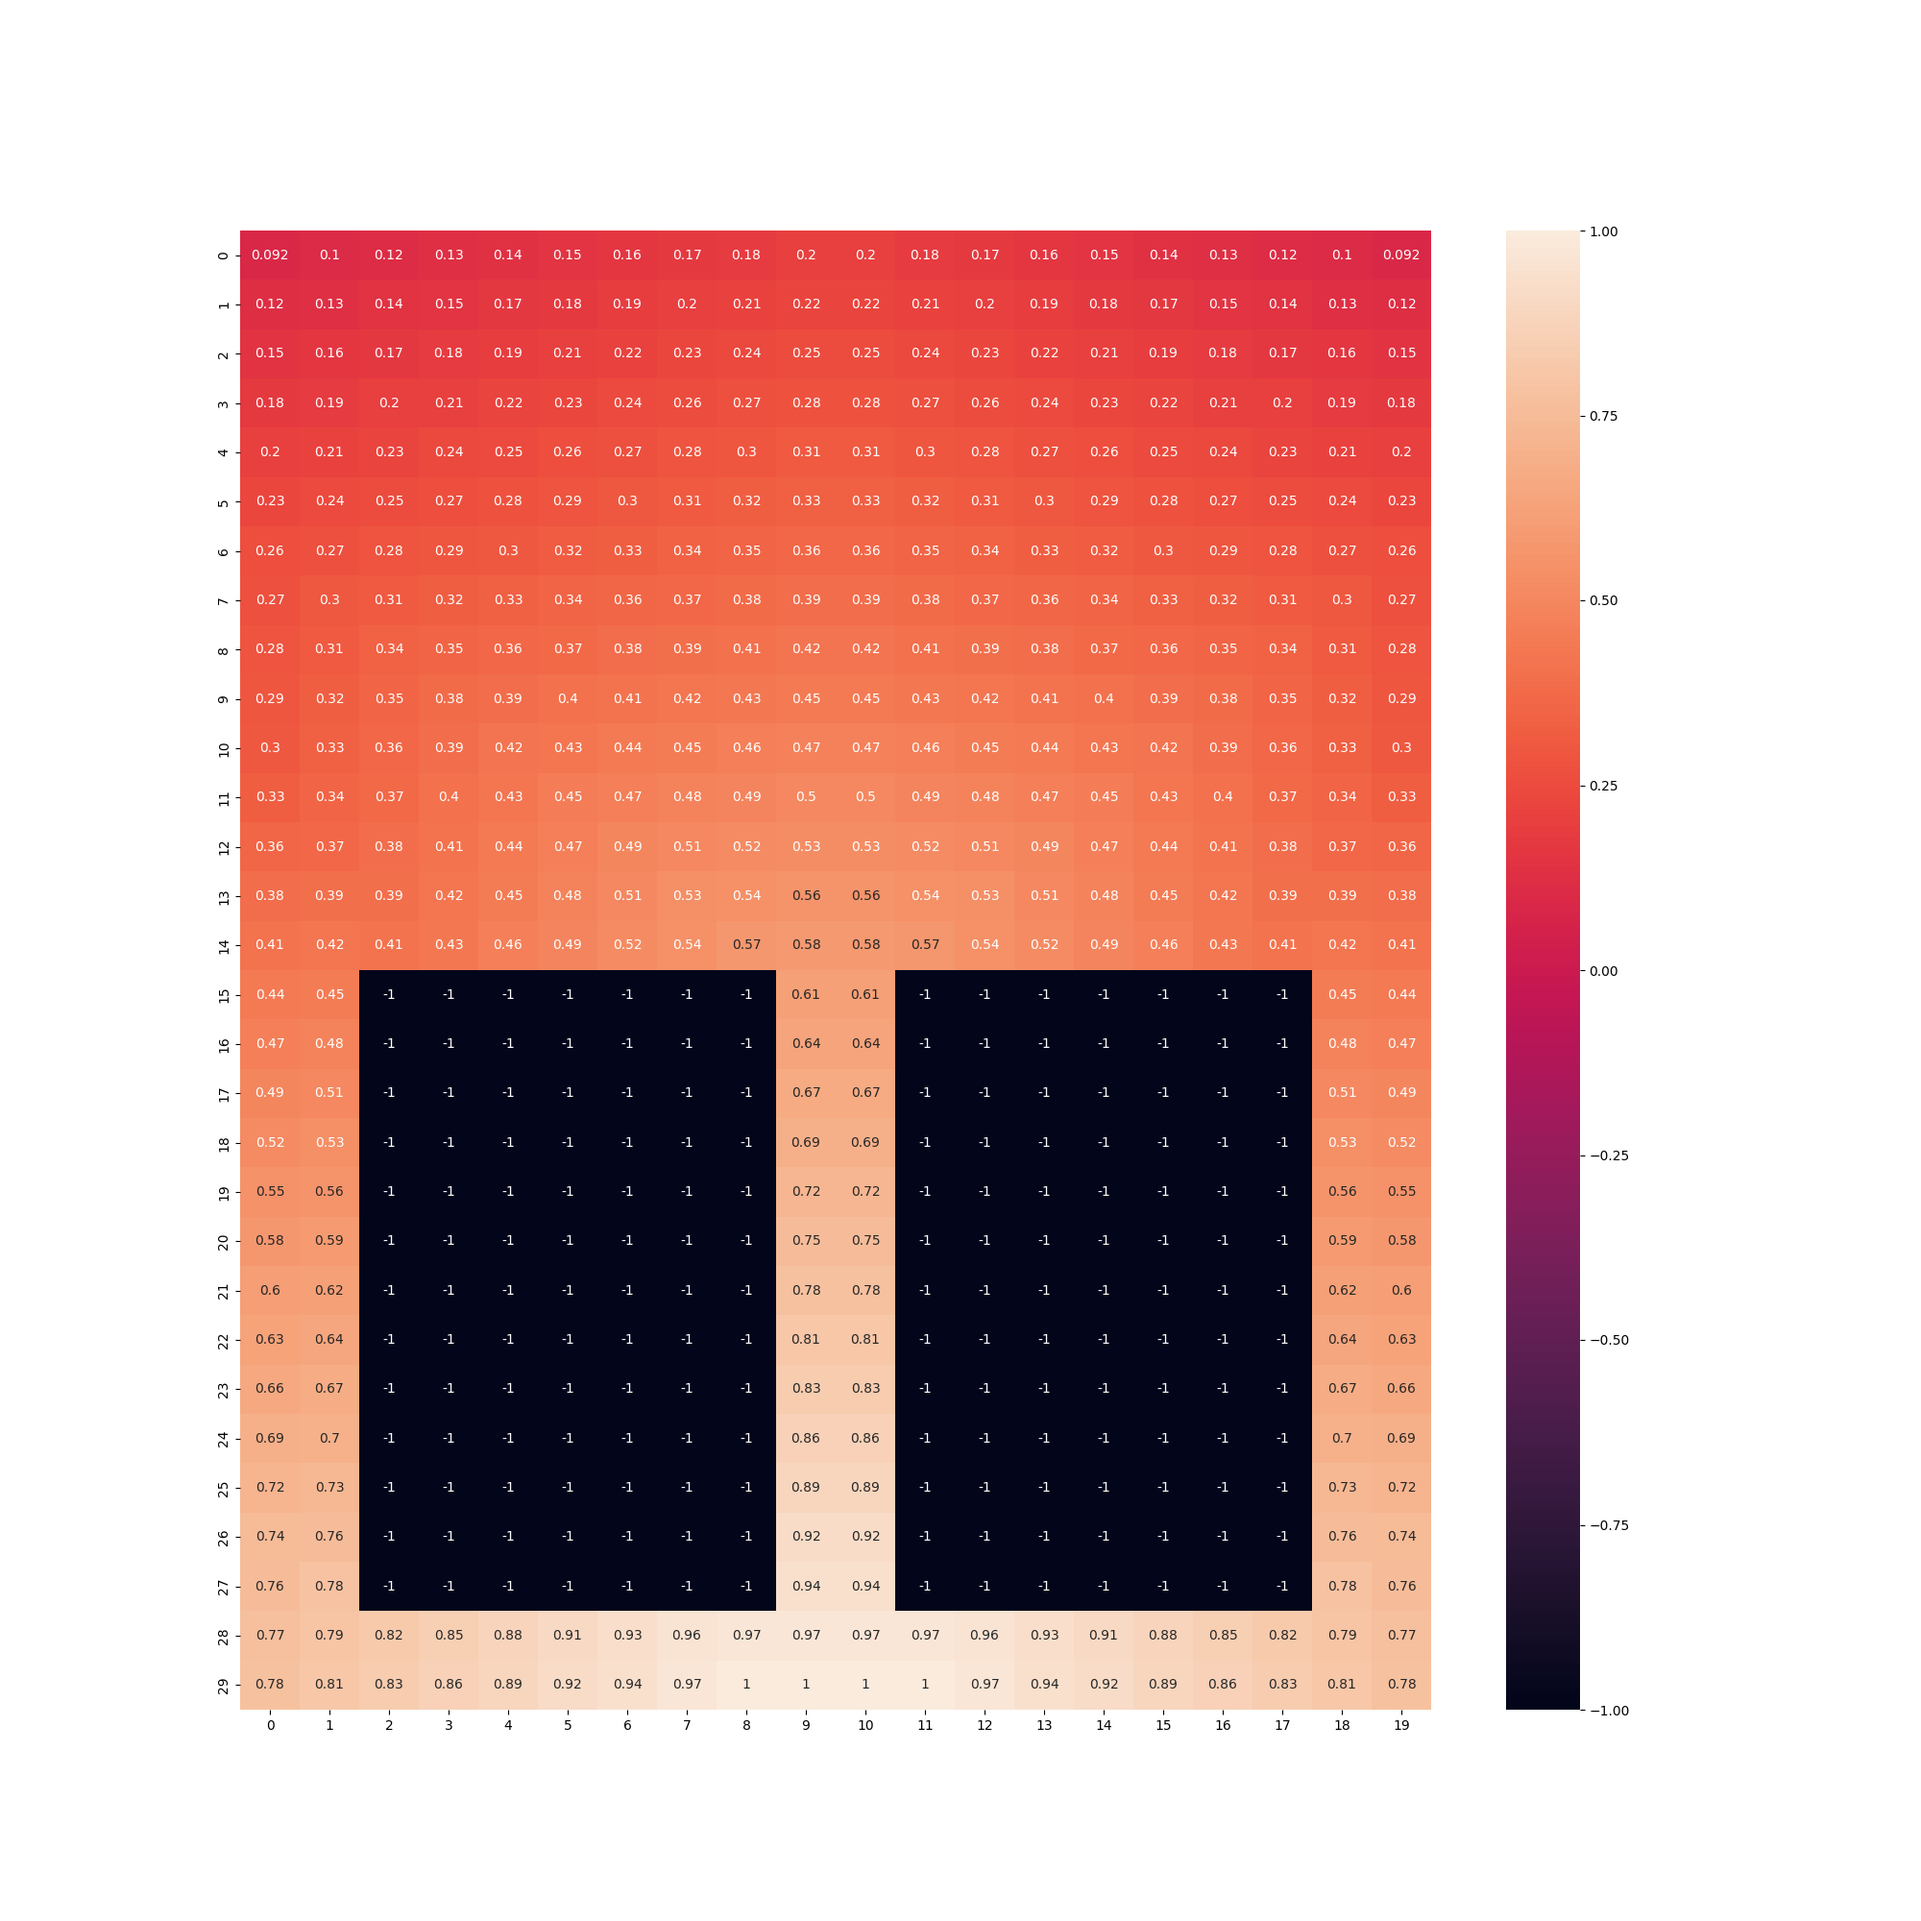
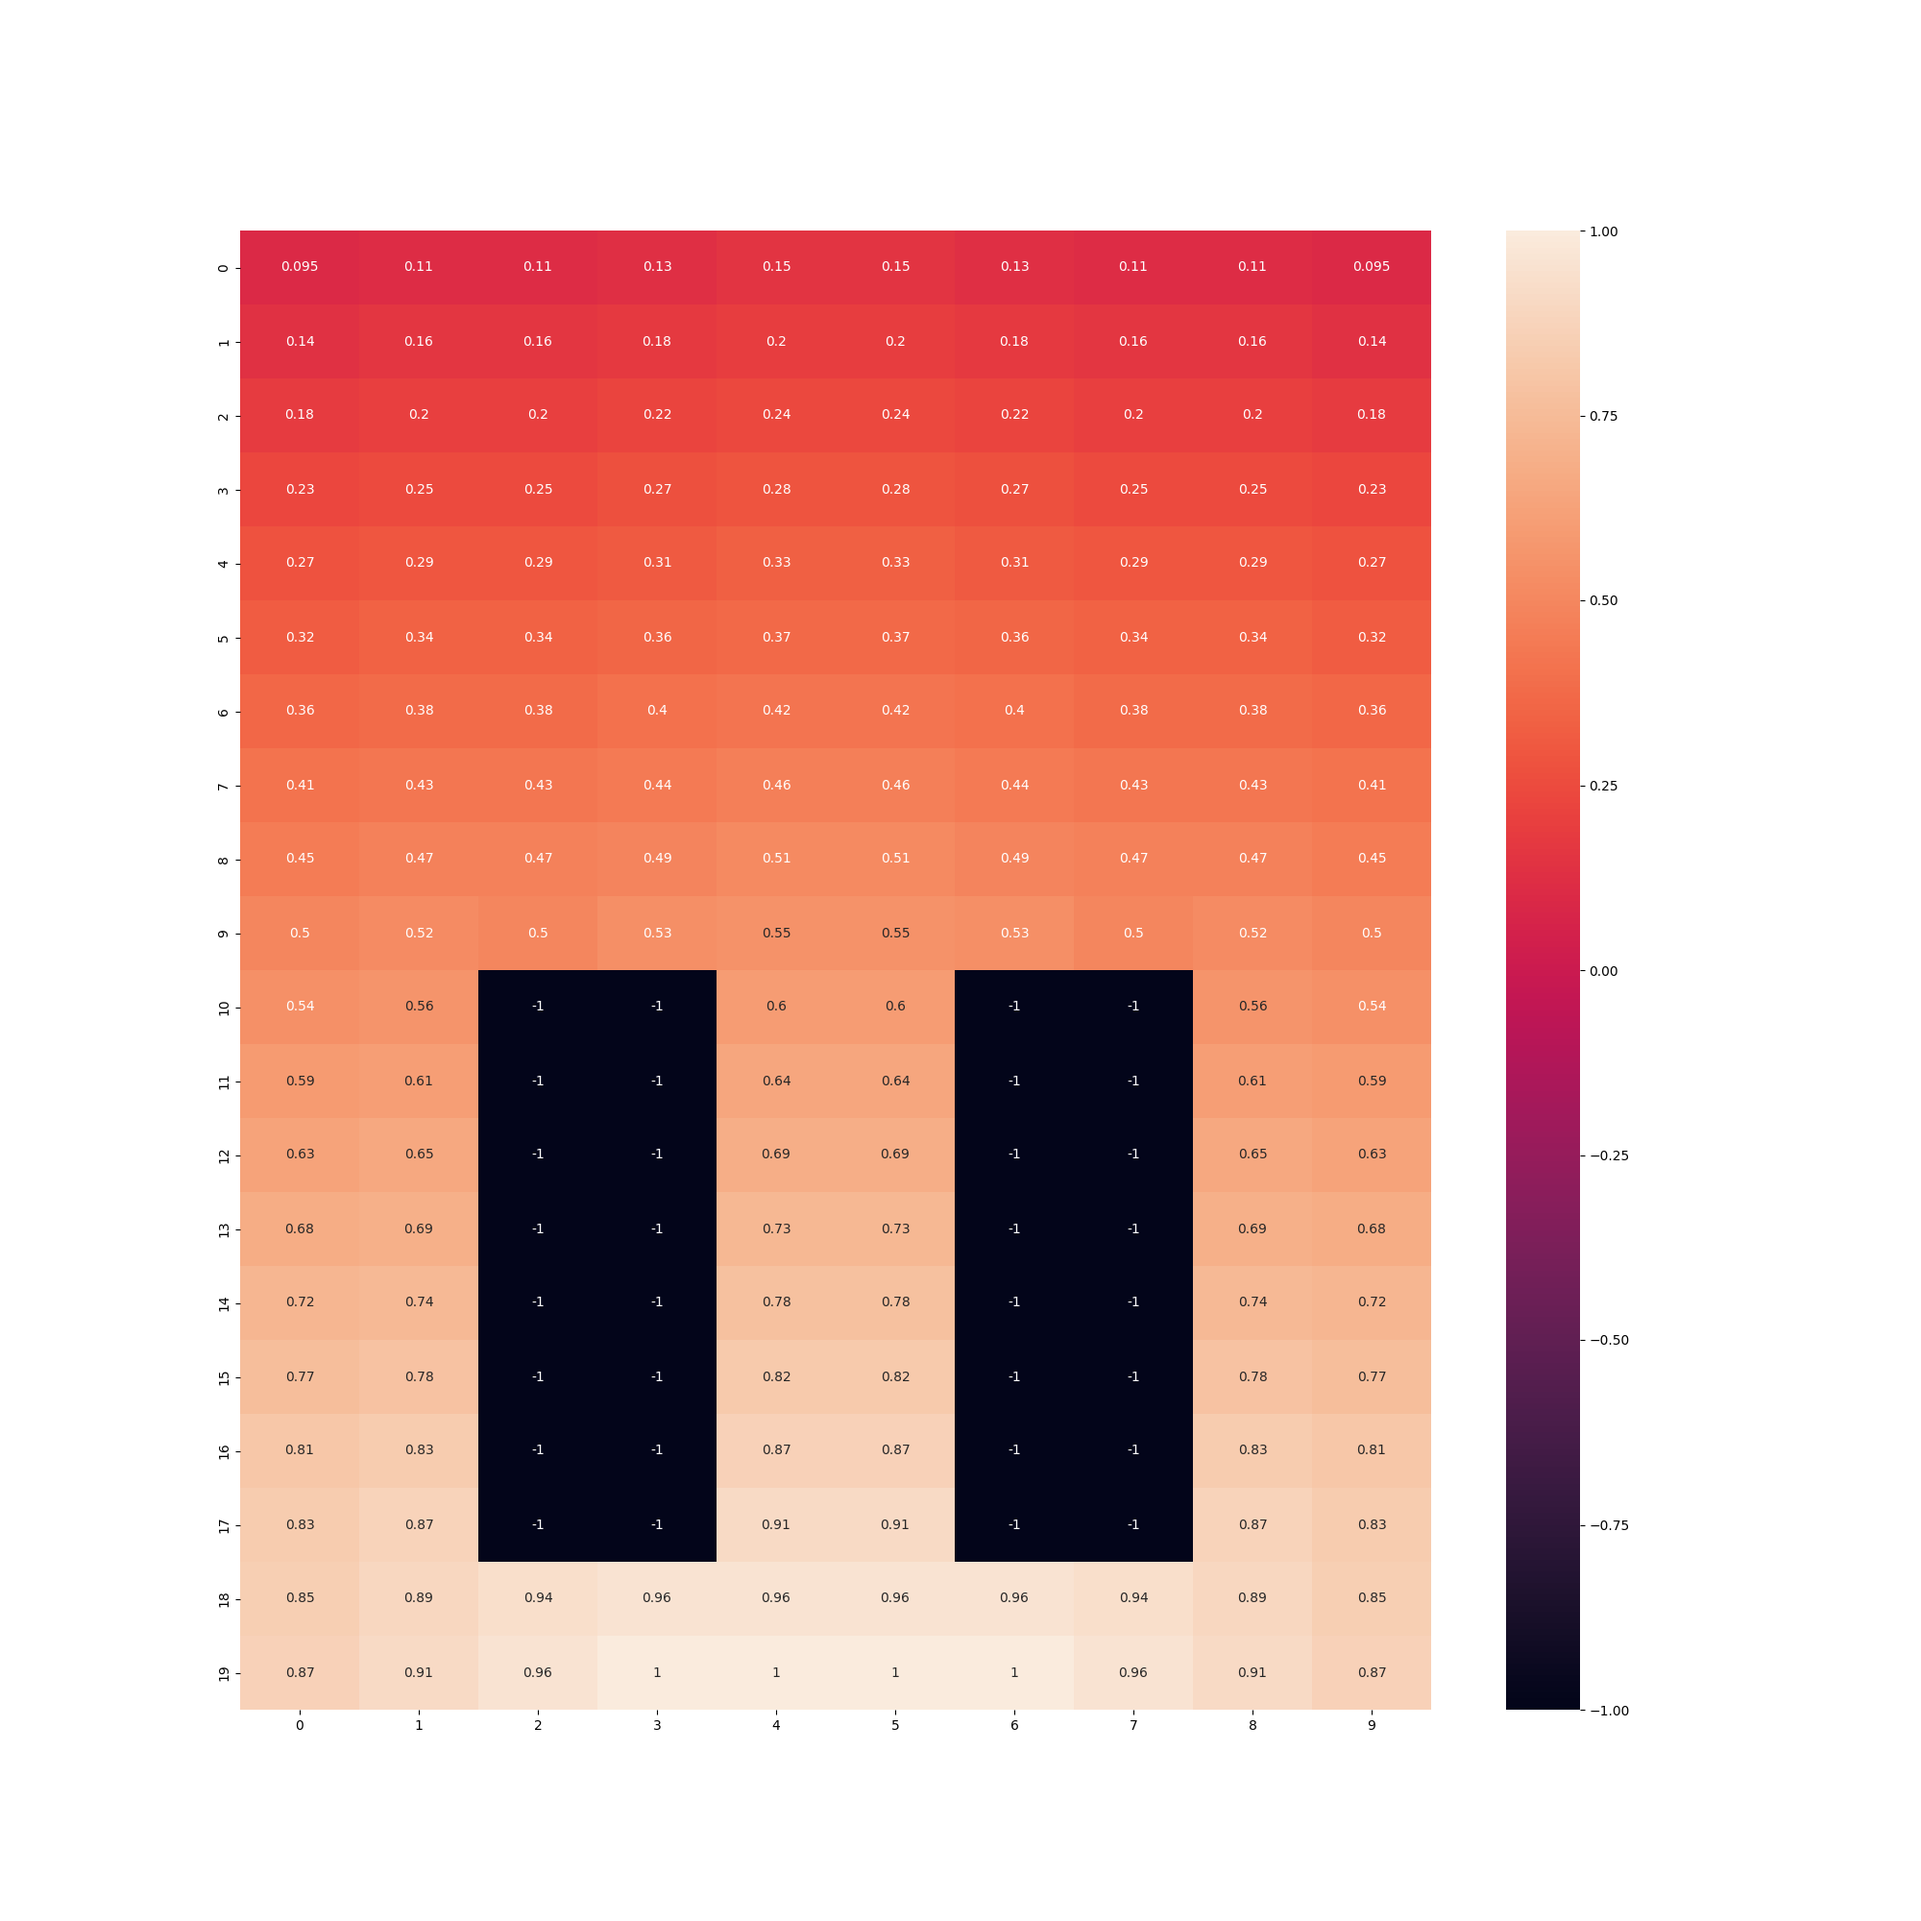
dodanie przycisku do wyboru symulacji z jednymi drzwiami

diff --git a/symulacja_mesa/model.py b/symulacja_mesa/model.py
@@ -27,7 +27,7 @@ import matplotlib.pyplot as plt
 import seaborn as sns
 
 class Evacuation(mesa.Model):
-    def __init__(self, n=10, width=20, height=10, door_width = 4, seed=None, model_type = "BNE_mixed_SR", p_BNE = 100):
+    def __init__(self, n=10, width=20, height=10, door_width = 4, seed=None, model_type = "BNE_mixed_SR", p_BNE = 100, right_door = True):
         super().__init__(seed=seed)
         self.patch_data = {}
         self.number_persons = n
@@ -36,7 +36,7 @@ class Evacuation(mesa.Model):
         self.grid = mesa.space.MultiGrid(width, height, False)
         
         self.moving_pattern = model_type
-        self.right_door_only = True #można dodać do tego przycisk żeby zmieniać
+        self.right_door_only = right_door
     
         #exits
         self.door_width = door_width

diff --git a/symulacja_mesa/app.py b/symulacja_mesa/app.py
@@ -291,6 +291,12 @@ page = SolaraViz(
             "label": "Model type",
             "values": ["BNE_mixed_SR", "BNE_mixed_RF", "SR", "RF"],
 
+        },
+        "right_door":{
+            "type": "Checkbox",
+            "value": True,
+            "label": "Right door only",
+            "description": "Add right door",
         }
     },
     components=
